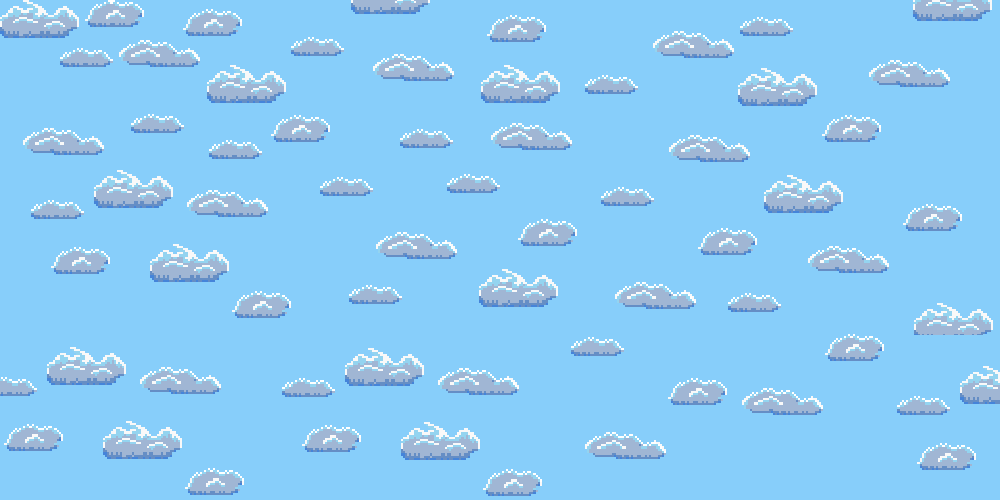
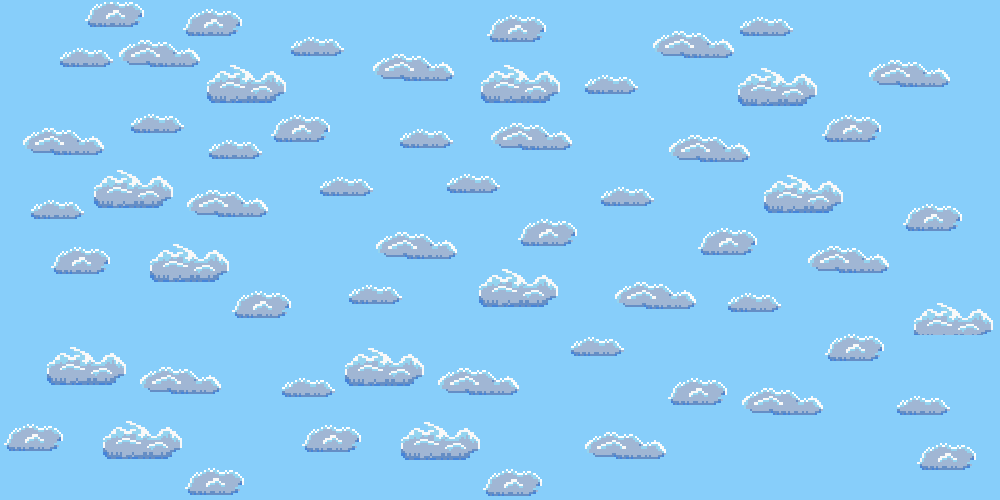
edit far background image, adjust aircurrent logic

diff --git a/dist/main.js b/dist/main.js
@@ -117,7 +117,7 @@ eval("// Copyright Joyent, Inc. and other Node contributors.\n//\n// Permission 
 /***/ (function(module, __webpack_exports__, __webpack_require__) {
 
 "use strict";
-eval("__webpack_require__.r(__webpack_exports__);\nconst CONSTANTS = {\n  UPDRAFT_SPEED: 2,\n  EDGE_BUFFER: 25,\n  OFFSET: 50,\n};\n\nclass Updraft {\n  constructor(dimensions) {\n    this.dimensions = dimensions;\n    this.frameCount = 0;\n\n    const firstUpdraftPos = this.dimensions.width * 0.6;\n\n    this.updrafts = [\n      this.randomUpdraft(firstUpdraftPos),\n      this.randomUpdraft(firstUpdraftPos + CONSTANTS.OFFSET + Math.floor(Math.random() * firstUpdraftPos)),\n      this.randomUpdraft(firstUpdraftPos + CONSTANTS.OFFSET + Math.floor(Math.random() * firstUpdraftPos * 2)),\n      this.randomUpdraft(firstUpdraftPos + CONSTANTS.OFFSET + Math.floor(Math.random() * firstUpdraftPos * 3)),\n      this.randomUpdraft(firstUpdraftPos + CONSTANTS.OFFSET + Math.floor(Math.random() * firstUpdraftPos * 4)),\n      this.randomUpdraft(firstUpdraftPos + CONSTANTS.OFFSET + Math.floor(Math.random() * firstUpdraftPos * 5)),\n    ];\n  }\n\n  randomUpdraft(xpos) {\n\n    const randomHeight = Math.floor(Math.random() * 200) + 200 + CONSTANTS.EDGE_BUFFER;\n   \n    const updraft = {\n      xpos: xpos,\n      ypos: randomHeight,\n      left: xpos,\n      right: xpos + 45,\n      top: randomHeight,\n      bottom: randomHeight + 45,\n    };\n    \n    return updraft;\n  }\n\n  moveUpdraft() {\n    \n    this.eachUpdraft((updraft) => {\n      \n      updraft.xpos -= CONSTANTS.UPDRAFT_SPEED;\n      updraft.left = updraft.xpos;\n      updraft.right = updraft.xpos + 50;\n\n      if (updraft.xpos < - 100) {\n        updraft.xpos = this.dimensions.width + Math.floor(Math.random() * this.dimensions.width);\n        updraft.ypos = Math.floor(Math.random() * 200) + 200 + CONSTANTS.EDGE_BUFFER;\n        updraft.left = updraft.xpos;\n        updraft.right = updraft.xpos + 50;\n        updraft.top = updraft.ypos;\n        updraft.bottom = updraft.ypos + 50;\n      }\n    });\n  }\n\n  drawUpdraft(ctx) {\n    this.eachUpdraft((updraft) => {\n\n      if (this.frameCount > 60) {\n        this.frameCount = 0;\n      } else {\n        this.frameCount += 1;\n      }\n\n      let spriteFrame = Math.floor(this.frameCount / 10);\n\n      const width = 96;\n      \n      let spriteUpdraft = new Image();\n\n      spriteUpdraft.src = \"../When-Elephants-Fly-Game/assets/images/Updraft.png\";\n\n      let xpos = Math.floor(updraft.xpos);\n      let ypos = Math.floor(updraft.ypos);\n\n      //TESTING\n      // ctx.fillStyle = \"#FF0000\";\n      // ctx.fillRect(xpos, ypos, 45, 45);\n\n      ctx.drawImage(spriteUpdraft, 0 + (width * spriteFrame), 0, 90, 90, xpos, ypos, 45, 45);\n\n    });\n  }\n\n  animate(ctx) { \n    this.moveUpdraft(); \n    this.drawUpdraft(ctx);\n  }\n\n  eachUpdraft(callback) {\n    this.updrafts.forEach(callback.bind(this));\n  }\n\n}\n\n/* harmony default export */ __webpack_exports__[\"default\"] = (Updraft);\n\n//# sourceURL=webpack:///./src/aircurrent.js?");
+eval("__webpack_require__.r(__webpack_exports__);\nconst CONSTANTS = {\n  UPDRAFT_SPEED: 2,\n  EDGE_BUFFER: 25,\n  OFFSET: 200,\n};\n\nclass Updraft {\n  constructor(dimensions) {\n    this.dimensions = dimensions;\n    this.frameCount = 0;\n\n    const firstUpdraftPos = this.dimensions.width * 0.6;\n\n    this.updrafts = [\n      this.randomUpdraft(firstUpdraftPos),\n      this.randomUpdraft(firstUpdraftPos + CONSTANTS.OFFSET + Math.floor(Math.random() * firstUpdraftPos)),\n      this.randomUpdraft(firstUpdraftPos + CONSTANTS.OFFSET + Math.floor(Math.random() * firstUpdraftPos * 2)),\n      this.randomUpdraft(firstUpdraftPos + CONSTANTS.OFFSET + Math.floor(Math.random() * firstUpdraftPos * 3)),\n      this.randomUpdraft(firstUpdraftPos + CONSTANTS.OFFSET + Math.floor(Math.random() * firstUpdraftPos * 4)),\n      this.randomUpdraft(firstUpdraftPos + CONSTANTS.OFFSET + Math.floor(Math.random() * firstUpdraftPos * 5)),\n    ];\n  }\n\n  randomUpdraft(xpos) {\n\n    const randomHeight = Math.floor(Math.random() * 200) + 200 + CONSTANTS.EDGE_BUFFER;\n   \n    const updraft = {\n      xpos: xpos,\n      ypos: randomHeight,\n      left: xpos,\n      right: xpos + 45,\n      top: randomHeight,\n      bottom: randomHeight + 45,\n    };\n    \n    return updraft;\n  }\n\n  moveUpdraft() {\n    \n    this.eachUpdraft((updraft) => {\n      \n      updraft.xpos -= CONSTANTS.UPDRAFT_SPEED;\n      updraft.left = updraft.xpos;\n      updraft.right = updraft.xpos + 50;\n\n      if (updraft.xpos < - 100) {\n        updraft.xpos = this.dimensions.width + CONSTANTS.OFFSET + Math.floor(Math.random() * this.dimensions.width);\n        updraft.ypos = Math.floor(Math.random() * 200) + 200 + CONSTANTS.EDGE_BUFFER;\n        updraft.left = updraft.xpos;\n        updraft.right = updraft.xpos + 45;\n        updraft.top = updraft.ypos;\n        updraft.bottom = updraft.ypos + 45;\n      }\n    });\n  }\n\n  drawUpdraft(ctx) {\n    this.eachUpdraft((updraft) => {\n\n      if (this.frameCount > 60) {\n        this.frameCount = 0;\n      } else {\n        this.frameCount += 1;\n      }\n\n      let spriteFrame = Math.floor(this.frameCount / 10);\n\n      const width = 96;\n      \n      let spriteUpdraft = new Image();\n\n      spriteUpdraft.src = \"../When-Elephants-Fly-Game/assets/images/Updraft.png\";\n\n      let xpos = Math.floor(updraft.xpos);\n      let ypos = Math.floor(updraft.ypos);\n\n      //TESTING\n      // ctx.fillStyle = \"#FF0000\";\n      // ctx.fillRect(xpos, ypos, 45, 45);\n\n      ctx.drawImage(spriteUpdraft, 0 + (width * spriteFrame), 0, 90, 90, xpos, ypos, 45, 45);\n\n    });\n  }\n\n  animate(ctx) { \n    this.moveUpdraft(); \n    this.drawUpdraft(ctx);\n  }\n\n  eachUpdraft(callback) {\n    this.updrafts.forEach(callback.bind(this));\n  }\n\n}\n\n/* harmony default export */ __webpack_exports__[\"default\"] = (Updraft);\n\n//# sourceURL=webpack:///./src/aircurrent.js?");
 
 /***/ }),
 
@@ -129,7 +129,7 @@ eval("__webpack_require__.r(__webpack_exports__);\nconst CONSTANTS = {\n  UPDRAF
 /***/ (function(module, __webpack_exports__, __webpack_require__) {
 
 "use strict";
-eval("__webpack_require__.r(__webpack_exports__);\nconst CONSTANTS = {\n  GRAVITY: 0.3,\n  TERMINAL_VELOCITY: 1,\n  LIFT_VEL_MULTIPLYER: 0.7,\n  PLANE_WIDTH: 25,\n  PLANE_HEIGHT: 18,\n};\n\nclass Airplane {\n  constructor(dimensions){\n    this.dimensions = dimensions;\n    this.angle = 0;\n    this.x = 50;\n    this.y = 50;\n    this.vertvel = 0;\n    this.frameAngleUpCount = 0;\n  }\n\n\n\n  changeAngle(angleDir) {\n    if(angleDir === 1){\n      this.angle = 1;\n    }\n    if(angleDir === 0){\n      this.angle = 0;\n    }\n    if(angleDir === -1){\n      this.angle = -1;\n    }\n  }\n\n  drawAirplane(ctx){\n    let spriteAirplane = new Image();\n\n    spriteAirplane.src = \"../When-Elephants-Fly-Game/assets/images/airplane.png\";\n    \n\n    let xpos = Math.floor(this.x);\n    let ypos = Math.floor(this.y);\n\n    const width = 34;\n    let spriteFrame = this.angle + 1;\n\n    //TESTING\n    // ctx.fillStyle = \"#FF0000\";\n    // ctx.fillRect(xpos, ypos, 25, 18);\n    \n    ctx.drawImage(spriteAirplane, 0 + (width * spriteFrame), 0, 34, 34, xpos, ypos, 34, 34);\n  }\n\n  moveAirplane(){\n\n    if(this.angle === 1){\n      if(this.frameAngleUpCount > 30){\n        this.frameAngleUpCount = 0;\n        this.angle = 0;\n      } else {\n        this.frameAngleUpCount += 1;\n      }\n      \n    }\n\n    this.y += this.vertvel;\n    this.vertvel += CONSTANTS.GRAVITY;\n\n    if(this.angle === 1){\n      this.vertvel -= (1 * CONSTANTS.LIFT_VEL_MULTIPLYER);\n    } else if(this.angle === -1){\n      this.vertvel -= (-1 * CONSTANTS.LIFT_VEL_MULTIPLYER);\n    }\n\n    if (Math.abs(this.vertvel) > CONSTANTS.TERMINAL_VELOCITY) {\n      if(this.vertvel > 0){\n        if(this.angle !== -1){\n          this.vertvel = CONSTANTS.TERMINAL_VELOCITY;\n        } else {\n          this.vertvel = 2 * CONSTANTS.TERMINAL_VELOCITY;\n        }\n      } else {\n        this.vertvel = CONSTANTS.TERMINAL_VELOCITY * -1;\n      }\n    }\n  }\n\n  boostAirplane(){\n    this.vertvel -= 50;\n  }\n\n  animate(ctx){\n    this.moveAirplane();\n    this.drawAirplane(ctx);\n  }\n\n  bounds() {\n    return {\n      left: this.x,\n      right: this.x + CONSTANTS.PLANE_WIDTH,\n      top: this.y,\n      bottom: this.y + CONSTANTS.PLANE_HEIGHT,\n    };\n  }\n\n  outOfBounds() {\n    // const tooHigh = this.y < 0;\n    const tooLow = this.y + CONSTANTS.PLANE_HEIGHT > this.dimensions.height;\n    return tooLow;\n  }\n}\n\n/* harmony default export */ __webpack_exports__[\"default\"] = (Airplane);\n\n//# sourceURL=webpack:///./src/airplane.js?");
+eval("__webpack_require__.r(__webpack_exports__);\nconst CONSTANTS = {\n  GRAVITY: 0.3,\n  TERMINAL_VELOCITY: 1,\n  LIFT_VEL_MULTIPLYER: 0.9,\n  PLANE_WIDTH: 25,\n  PLANE_HEIGHT: 18,\n};\n\nclass Airplane {\n  constructor(dimensions){\n    this.dimensions = dimensions;\n    this.angle = 0;\n    this.x = 50;\n    this.y = 50;\n    this.vertvel = 0;\n    this.frameAngleUpCount = 0;\n    this.frameBoostCount = 0;\n    this.boosted = false;\n  }\n\n\n\n  changeAngle(angleDir) {\n    if(angleDir === 1){\n      this.angle = 1;\n    }\n    if(angleDir === 0){\n      this.angle = 0;\n    }\n    if(angleDir === -1){\n      this.angle = -1;\n    }\n  }\n\n  drawAirplane(ctx){\n    let spriteAirplane = new Image();\n\n    spriteAirplane.src = \"../When-Elephants-Fly-Game/assets/images/airplane.png\";\n    \n\n    let xpos = Math.floor(this.x);\n    let ypos = Math.floor(this.y);\n\n    const width = 34;\n    let spriteFrame = this.angle + 1;\n\n    //TESTING\n    // ctx.fillStyle = \"#FF0000\";\n    // ctx.fillRect(xpos, ypos, 25, 18);\n    \n    ctx.drawImage(spriteAirplane, 0 + (width * spriteFrame), 0, 34, 34, xpos, ypos, 34, 34);\n  }\n\n  moveAirplane(){\n\n    if(this.angle === 1){\n      if(this.frameAngleUpCount > 30){\n        this.frameAngleUpCount = 0;\n        this.angle = 0;\n      } else {\n        this.frameAngleUpCount += 1;\n      }\n      \n    }\n\n    this.y += this.vertvel;\n    this.vertvel += CONSTANTS.GRAVITY;\n\n    if(this.angle === 1){\n      this.vertvel -= (1 * CONSTANTS.LIFT_VEL_MULTIPLYER);\n    } else if(this.angle === -1){\n      this.vertvel -= (-1 * CONSTANTS.LIFT_VEL_MULTIPLYER);\n    }\n\n    if(this.boosted){\n      this.vertvel -= 10 * CONSTANTS.LIFT_VEL_MULTIPLYER;\n      this.boostAirplane();\n    }\n\n    if (Math.abs(this.vertvel) > CONSTANTS.TERMINAL_VELOCITY) {\n      if(this.vertvel > 0){\n        if(this.angle !== -1){\n          this.vertvel = CONSTANTS.TERMINAL_VELOCITY;\n        } else {\n          this.vertvel = 2 * CONSTANTS.TERMINAL_VELOCITY;\n        }\n      } else {\n        this.vertvel = CONSTANTS.TERMINAL_VELOCITY * -1;\n      }\n    }\n  }\n\n  boostAirplane(){\n    if(this.frameBoostCount > 120){\n      this.frameBoostCount = 0;\n      this.boosted = false;\n    } else {\n      this.frameBoostCount += 1;\n      this.boosted = true;\n    }\n  }\n\n  animate(ctx){\n    this.moveAirplane();\n    this.drawAirplane(ctx);\n  }\n\n  bounds() {\n    return {\n      left: this.x,\n      right: this.x + CONSTANTS.PLANE_WIDTH,\n      top: this.y,\n      bottom: this.y + CONSTANTS.PLANE_HEIGHT,\n    };\n  }\n\n  outOfBounds() {\n    // const tooHigh = this.y < 0;\n    const tooLow = this.y + CONSTANTS.PLANE_HEIGHT > this.dimensions.height;\n    return tooLow;\n  }\n}\n\n/* harmony default export */ __webpack_exports__[\"default\"] = (Airplane);\n\n//# sourceURL=webpack:///./src/airplane.js?");
 
 /***/ }),
 
@@ -141,7 +141,7 @@ eval("__webpack_require__.r(__webpack_exports__);\nconst CONSTANTS = {\n  GRAVIT
 /***/ (function(module, __webpack_exports__, __webpack_require__) {
 
 "use strict";
-eval("__webpack_require__.r(__webpack_exports__);\nconst CONSTANTS = {\n  ELEPHANT_SPEED: 8,\n  EDGE_BUFFER: 0,\n  X_OFFSET: 25,\n  Y_OFFSET: 36,\n  ELEPHANT_WIDTH: 78,\n  ELEPHANT_HEIGHT: 60,\n};\n\nclass Elephant {\n  constructor(dimensions) {\n    this.dimensions = dimensions;\n    this.frameCount = 0;\n\n    const firstElephantPos = this.dimensions.width + 10;\n\n    this.elephants = [\n      this.randomElephant(firstElephantPos),\n      this.randomElephant(firstElephantPos + 100 + Math.floor(Math.random() * firstElephantPos)),\n      this.randomElephant(firstElephantPos + 100 + Math.floor(Math.random() * firstElephantPos * 2)),\n      this.randomElephant(firstElephantPos + 100 + Math.floor(Math.random() * firstElephantPos * 3)),\n    ];\n  }\n\n  randomElephant(xpos) {\n\n    const randomHeight = Math.floor(Math.random() * 400) + CONSTANTS.EDGE_BUFFER;\n\n    const elephant = {\n      xpos: xpos,\n      ypos: randomHeight,\n      left: xpos + CONSTANTS.X_OFFSET,\n      right: xpos + CONSTANTS.X_OFFSET + CONSTANTS.ELEPHANT_WIDTH,\n      top: randomHeight + CONSTANTS.Y_OFFSET,\n      bottom: randomHeight + CONSTANTS.Y_OFFSET + CONSTANTS.ELEPHANT_HEIGHT,\n\n    };\n\n    return elephant;\n  }\n\n  moveElephant() {\n\n    this.eachElephant((elephant) => {\n\n      elephant.xpos -= CONSTANTS.ELEPHANT_SPEED;\n      elephant.left = elephant.xpos + CONSTANTS.ELEPHANT_WIDTH;\n      elephant.right = elephant.xpos + CONSTANTS.X_OFFSET + CONSTANTS.ELEPHANT_WIDTH;\n\n      if(elephant.xpos < - 100){\n        elephant.xpos = this.dimensions.width + Math.floor(Math.random() * this.dimensions.width);\n        elephant.ypos = Math.floor(Math.random() * 400);\n        elephant.left = elephant.xpos + CONSTANTS.ELEPHANT_WIDTH;\n        elephant.right = elephant.xpos + CONSTANTS.X_OFFSET + CONSTANTS.ELEPHANT_WIDTH;\n        elephant.top = elephant.ypos + CONSTANTS.ELEPHANT_HEIGHT;\n        elephant.bottom = elephant.ypos + CONSTANTS.Y_OFFSET + CONSTANTS.ELEPHANT_HEIGHT;\n      }\n    });\n  }\n\n  drawElephant(ctx) {\n    this.eachElephant((elephant) => {\n\n      if(this.frameCount > 80){\n        this.frameCount = 0;\n      } else {\n        this.frameCount += 1;\n      }\n\n      let spriteFrame = Math.floor(this.frameCount / 10);\n\n      const width = 162;\n\n      let spriteElephant = new Image();\n\n      spriteElephant.src = \"../When-Elephants-Fly-Game/assets/images/elephant.png\";\n\n      let xpos = Math.floor(elephant.xpos);\n      let ypos = Math.floor(elephant.ypos);\n      \n      // TESTING\n      // ctx.fillStyle = \"#FF0000\";\n      // ctx.fillRect(xpos + 25, ypos + 36, 78, 60);\n      \n      ctx.drawImage(spriteElephant, 0 + (width * spriteFrame), 0, 160, 125, xpos, ypos, 130, 100);\n\n    });\n  }\n\n  \n\n  animate(ctx) {\n    this.moveElephant();\n    this.drawElephant(ctx);\n  }\n\n\n  eachElephant(callback) {\n    this.elephants.forEach(callback.bind(this));\n  }\n\n}\n\n/* harmony default export */ __webpack_exports__[\"default\"] = (Elephant);\n\n//# sourceURL=webpack:///./src/elephant.js?");
+eval("__webpack_require__.r(__webpack_exports__);\nconst CONSTANTS = {\n  ELEPHANT_SPEED: 7,\n  EDGE_BUFFER: 0,\n  X_OFFSET: 25,\n  Y_OFFSET: 36,\n  ELEPHANT_WIDTH: 78,\n  ELEPHANT_HEIGHT: 60,\n};\n\nclass Elephant {\n  constructor(dimensions) {\n    this.dimensions = dimensions;\n    this.frameCount = 0;\n\n    const firstElephantPos = this.dimensions.width + 10;\n\n    this.elephants = [\n      this.randomElephant(firstElephantPos),\n      this.randomElephant(firstElephantPos + 100 + Math.floor(Math.random() * firstElephantPos)),\n      this.randomElephant(firstElephantPos + 100 + Math.floor(Math.random() * firstElephantPos * 2)),\n      this.randomElephant(firstElephantPos + 100 + Math.floor(Math.random() * firstElephantPos * 3)),\n    ];\n  }\n\n  randomElephant(xpos) {\n\n    const randomHeight = Math.floor(Math.random() * 400) + CONSTANTS.EDGE_BUFFER;\n\n    const elephant = {\n      xpos: xpos,\n      ypos: randomHeight,\n      left: xpos + CONSTANTS.X_OFFSET,\n      right: xpos + CONSTANTS.X_OFFSET + CONSTANTS.ELEPHANT_WIDTH,\n      top: randomHeight + CONSTANTS.Y_OFFSET,\n      bottom: randomHeight + CONSTANTS.Y_OFFSET + CONSTANTS.ELEPHANT_HEIGHT,\n\n    };\n\n    return elephant;\n  }\n\n  moveElephant() {\n\n    this.eachElephant((elephant) => {\n\n      elephant.xpos -= CONSTANTS.ELEPHANT_SPEED;\n      elephant.left = elephant.xpos + CONSTANTS.ELEPHANT_WIDTH;\n      elephant.right = elephant.xpos + CONSTANTS.X_OFFSET + CONSTANTS.ELEPHANT_WIDTH;\n\n      if(elephant.xpos < - 100){\n        elephant.xpos = this.dimensions.width + Math.floor(Math.random() * this.dimensions.width);\n        elephant.ypos = Math.floor(Math.random() * 400);\n        elephant.left = elephant.xpos + CONSTANTS.ELEPHANT_WIDTH;\n        elephant.right = elephant.xpos + CONSTANTS.X_OFFSET + CONSTANTS.ELEPHANT_WIDTH;\n        elephant.top = elephant.ypos + CONSTANTS.ELEPHANT_HEIGHT;\n        elephant.bottom = elephant.ypos + CONSTANTS.Y_OFFSET + CONSTANTS.ELEPHANT_HEIGHT;\n      }\n    });\n  }\n\n  drawElephant(ctx) {\n    this.eachElephant((elephant) => {\n\n      if(this.frameCount > 80){\n        this.frameCount = 0;\n      } else {\n        this.frameCount += 1;\n      }\n\n      let spriteFrame = Math.floor(this.frameCount / 10);\n\n      const width = 162;\n\n      let spriteElephant = new Image();\n\n      spriteElephant.src = \"../When-Elephants-Fly-Game/assets/images/elephant.png\";\n\n      let xpos = Math.floor(elephant.xpos);\n      let ypos = Math.floor(elephant.ypos);\n      \n      // TESTING\n      // ctx.fillStyle = \"#FF0000\";\n      // ctx.fillRect(xpos + 25, ypos + 36, 78, 60);\n      \n      ctx.drawImage(spriteElephant, 0 + (width * spriteFrame), 0, 160, 125, xpos, ypos, 130, 100);\n\n    });\n  }\n\n  \n\n  animate(ctx) {\n    this.moveElephant();\n    this.drawElephant(ctx);\n  }\n\n\n  eachElephant(callback) {\n    this.elephants.forEach(callback.bind(this));\n  }\n\n}\n\n/* harmony default export */ __webpack_exports__[\"default\"] = (Elephant);\n\n//# sourceURL=webpack:///./src/elephant.js?");
 
 /***/ }),
 

diff --git a/src/airplane.js b/src/airplane.js
@@ -1,7 +1,7 @@
 const CONSTANTS = {
   GRAVITY: 0.3,
   TERMINAL_VELOCITY: 1,
-  LIFT_VEL_MULTIPLYER: 0.7,
+  LIFT_VEL_MULTIPLYER: 0.9,
   PLANE_WIDTH: 25,
   PLANE_HEIGHT: 18,
 };
@@ -14,6 +14,8 @@ class Airplane {
     this.y = 50;
     this.vertvel = 0;
     this.frameAngleUpCount = 0;
+    this.frameBoostCount = 0;
+    this.boosted = false;
   }
 
 
@@ -70,6 +72,11 @@ class Airplane {
       this.vertvel -= (-1 * CONSTANTS.LIFT_VEL_MULTIPLYER);
     }
 
+    if(this.boosted){
+      this.vertvel -= 10 * CONSTANTS.LIFT_VEL_MULTIPLYER;
+      this.boostAirplane();
+    }
+
     if (Math.abs(this.vertvel) > CONSTANTS.TERMINAL_VELOCITY) {
       if(this.vertvel > 0){
         if(this.angle !== -1){
@@ -84,7 +91,13 @@ class Airplane {
   }
 
   boostAirplane(){
-    this.vertvel -= 50;
+    if(this.frameBoostCount > 120){
+      this.frameBoostCount = 0;
+      this.boosted = false;
+    } else {
+      this.frameBoostCount += 1;
+      this.boosted = true;
+    }
   }
 
   animate(ctx){

diff --git a/src/aircurrent.js b/src/aircurrent.js
@@ -1,7 +1,7 @@
 const CONSTANTS = {
   UPDRAFT_SPEED: 2,
   EDGE_BUFFER: 25,
-  OFFSET: 50,
+  OFFSET: 200,
 };
 
 class Updraft {
@@ -46,12 +46,12 @@ class Updraft {
       updraft.right = updraft.xpos + 50;
 
       if (updraft.xpos < - 100) {
-        updraft.xpos = this.dimensions.width + Math.floor(Math.random() * this.dimensions.width);
+        updraft.xpos = this.dimensions.width + CONSTANTS.OFFSET + Math.floor(Math.random() * this.dimensions.width);
         updraft.ypos = Math.floor(Math.random() * 200) + 200 + CONSTANTS.EDGE_BUFFER;
         updraft.left = updraft.xpos;
-        updraft.right = updraft.xpos + 50;
+        updraft.right = updraft.xpos + 45;
         updraft.top = updraft.ypos;
-        updraft.bottom = updraft.ypos + 50;
+        updraft.bottom = updraft.ypos + 45;
       }
     });
   }

diff --git a/assets/stylesheets/game.css b/assets/stylesheets/game.css
@@ -9,7 +9,7 @@
 .main-body-content {
   display: flex;
   background-image: url("../images/background.png");
-  background-size: initial;
+  /* background-size */
   flex-direction: column;
   align-items: center;
 }
@@ -48,7 +48,7 @@
 }
 
 .score-timer {
-  border: 1px solid rgb(93, 173, 223);
+  border: 1px solid darkblue;
   background: lightskyblue;
   border-radius: 3px;
   padding: 5px;

diff --git a/src/elephant.js b/src/elephant.js
@@ -1,5 +1,5 @@
 const CONSTANTS = {
-  ELEPHANT_SPEED: 8,
+  ELEPHANT_SPEED: 7,
   EDGE_BUFFER: 0,
   X_OFFSET: 25,
   Y_OFFSET: 36,
